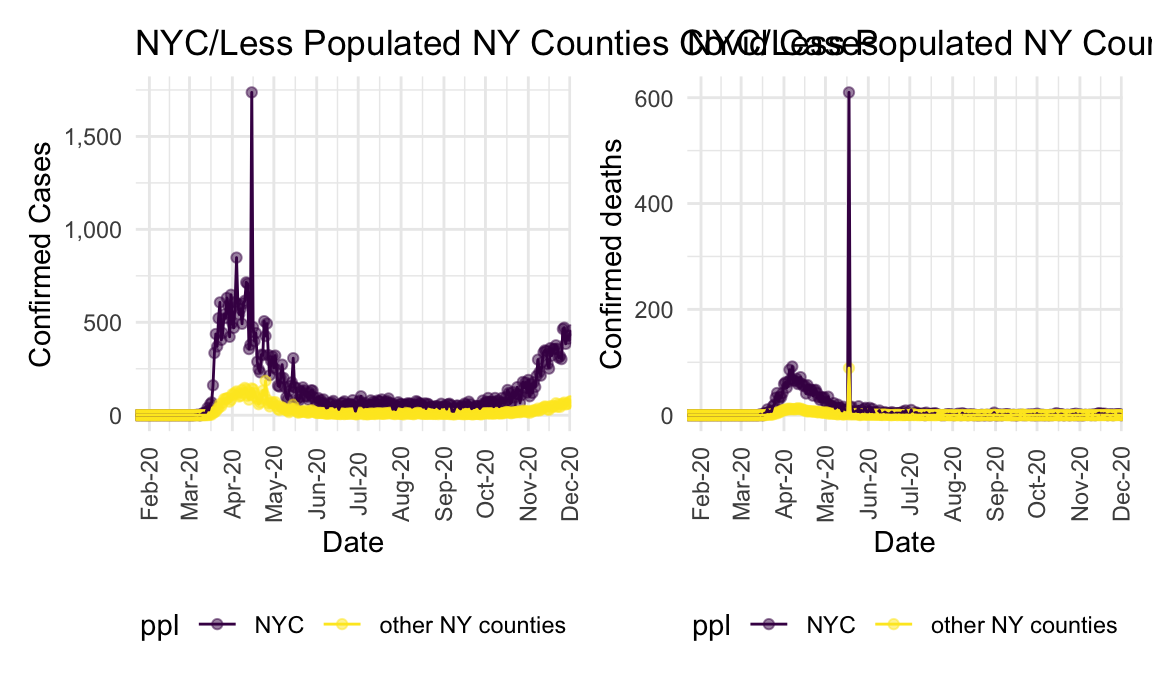
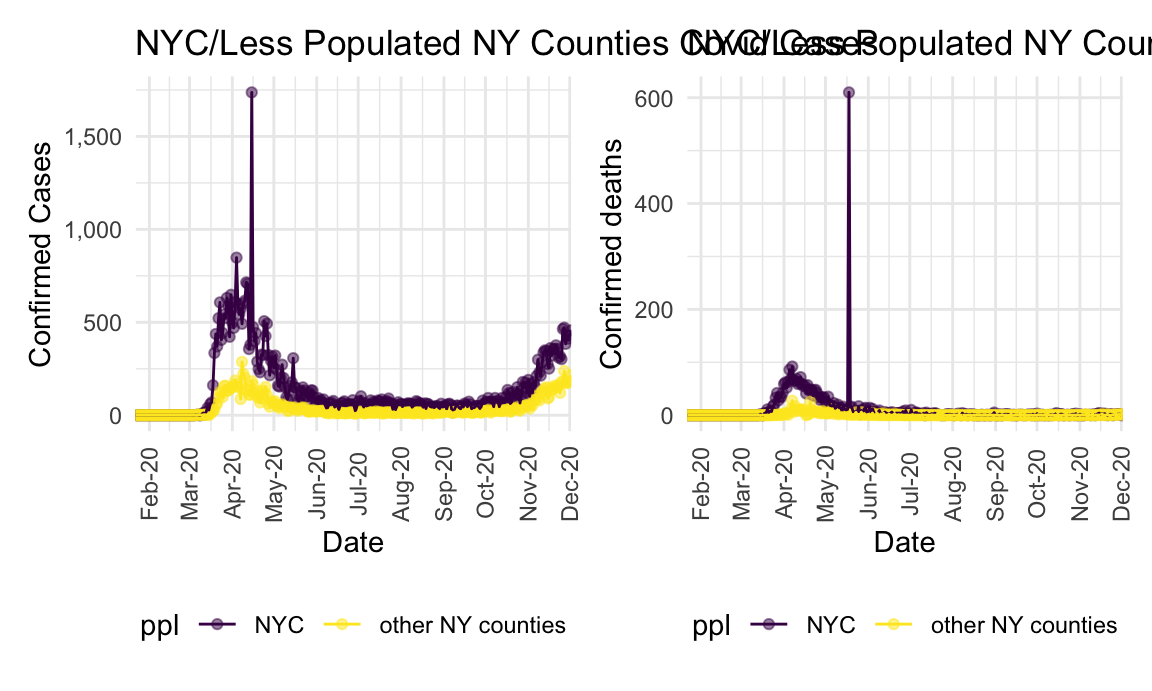
trend graphs for national events

Changed region(s): [[0.1875, 0.5166, 0.5, 0.6078], [0.6562, 0.5166, 0.75, 0.6078]]

diff --git a/descriptive_plotly.html b/descriptive_plotly.html
@@ -561,7 +561,7 @@ ny_df =
   nyc_df %&gt;% 
   rbind(ny_lessppl_df) %&gt;% 
   mutate(ppl = ifelse(county == &quot;New York&quot;, &quot;NYC&quot;, &quot;other NY counties&quot;))</code></pre>
-<p>NYC has a population of 1.62870610^{6}, and the mean population of the 10 randomly selected NY counties is 2.16114610^{5}.</p>
+<p>NYC has a population of 1.62870610^{6}, and the mean population of the 10 randomly selected NY counties is 3.780416210^{5}.</p>
 <pre class="r"><code>ny_confirmed_plot =
   ny_df %&gt;% 
   group_by(ppl, date) %&gt;% 
@@ -607,7 +607,7 @@ ca_df =
   la_df %&gt;% 
   rbind(ca_lessppl_df) %&gt;% 
   mutate(ppl = ifelse(county == &quot;Los Angeles&quot;, &quot;LA&quot;, &quot;other CA counties&quot;))</code></pre>
-<p>Los Angeles has a population of 1.003910710^{7}, and the mean population of the 10 randomly selected CA counties is 7.027838310^{5}.</p>
+<p>Los Angeles has a population of 1.003910710^{7}, and the mean population of the 10 randomly selected CA counties is 5.942249110^{5}.</p>
 <pre class="r"><code>ca_confirmed_plot =
   ca_df %&gt;% 
   group_by(ppl, date) %&gt;% 
@@ -651,7 +651,7 @@ il_df =
   chicago_df %&gt;% 
   rbind(il_lessppl_df) %&gt;% 
   mutate(ppl = ifelse(county == &quot;Cook&quot;, &quot;Cook County (Chicago)&quot;, &quot;other IL counties&quot;))</code></pre>
-<p>Cook County (Chicago included) has a population of 5.15023310^{6}, and the mean population of the 10 randomly selected IL counties is 5.745111810^{4}.</p>
+<p>Cook County (Chicago included) has a population of 5.15023310^{6}, and the mean population of the 10 randomly selected IL counties is 7.029316710^{4}.</p>
 <pre class="r"><code>il_confirmed_plot =
   il_df %&gt;% 
   group_by(ppl, date) %&gt;% 
@@ -695,7 +695,7 @@ tx_df =
   houston_df %&gt;% 
   rbind(tx_lessppl_df) %&gt;% 
   mutate(ppl = ifelse(county == &quot;Houston&quot;, &quot;Houston&quot;, &quot;other TX counties&quot;))</code></pre>
-<p>Houston has a population of 2.296810^{4}, and the mean population of the 10 randomly selected TX counties is 1.256887310^{5}.</p>
+<p>Houston has a population of 2.296810^{4}, and the mean population of the 10 randomly selected TX counties is 1.848458310^{4}.</p>
 <pre class="r"><code>tx_confirmed_plot =
   tx_df %&gt;% 
   group_by(ppl, date) %&gt;% 
@@ -730,6 +730,75 @@ tx_df =
 <pre><code>## Warning: Removed 14 rows containing missing values (geom_point).</code></pre>
 <p><img src="descriptive_plotly_files/figure-html/unnamed-chunk-17-1.png" width="90%" /></p>
 <p>Texas is one of the sub-tropical states.</p>
+<p>Comparing overall us cases and deaths with important national events</p>
+<pre class="r"><code>library(sars2pack)</code></pre>
+<pre><code>## Loading required package: R0</code></pre>
+<pre><code>## Loading required package: MASS</code></pre>
+<pre><code>## 
+## Attaching package: &#39;MASS&#39;</code></pre>
+<pre><code>## The following object is masked from &#39;package:patchwork&#39;:
+## 
+##     area</code></pre>
+<pre><code>## The following object is masked from &#39;package:plotly&#39;:
+## 
+##     select</code></pre>
+<pre><code>## The following object is masked from &#39;package:dplyr&#39;:
+## 
+##     select</code></pre>
+<pre><code>## Loading required package: sf</code></pre>
+<pre><code>## Linking to GEOS 3.8.1, GDAL 3.1.1, PROJ 6.3.1</code></pre>
+<pre><code>## Registered S3 method overwritten by &#39;quantmod&#39;:
+##   method            from
+##   as.zoo.data.frame zoo</code></pre>
+<pre class="r"><code>us_df = jhu_data() %&gt;% 
+  janitor::clean_names() %&gt;% 
+  filter(country_region == &quot;US&quot;)
+
+
+us_covid_df = 
+  us_df %&gt;% 
+    pivot_wider(names_from = subset,
+              values_from = count) %&gt;% 
+    mutate(
+    new_case = confirmed - lag(confirmed, default = 0),
+    new_deaths = deaths - lag(deaths, default = 0),
+    date = as.Date(date)
+    )
+
+events_df = 
+  read_excel(&quot;./data/national_events.xlsx&quot;) 
+
+
+us_events_df = left_join(us_covid_df, events_df, by.x = c(&quot;date&quot;), by.y = c( &quot;date&quot;))</code></pre>
+<pre><code>## Joining, by = &quot;date&quot;</code></pre>
+<pre class="r"><code>us_events_df = 
+  us_events_df %&gt;% 
+  mutate(in_two_weeks_mask = if_else(!(is.na(event)), lead(new_case, 14), NA_real_)) %&gt;%
+  mutate(diff = in_two_weeks_mask - new_case)
+
+
+us_events_df = 
+  us_events_df %&gt;% 
+  mutate(in_two_weeks_death = if_else(!(is.na(event)), lead(new_deaths, 30), NA_real_)) %&gt;% 
+  mutate(diff_death = in_two_weeks_death - new_deaths)</code></pre>
+<pre class="r"><code>us_events_df %&gt;%  
+  ggplot(aes(x = date, y = new_case)) +
+  geom_point() +
+    labs(title = &quot;New cases over time&quot;,
+       y = &quot;new cases&quot;,
+       x = &quot;date&quot;) +
+      geom_vline(data = events_df, mapping = aes(xintercept = date) ,linetype = &quot;dotted&quot;,color = &quot;blue&quot;, show.legend = TRUE) +
+  geom_text(data = events_df, mapping = aes(x = date, y = 127500, label = event), size = 3.5, angle = 90, vjust = -0.4, hjust = 0)</code></pre>
+<p><img src="descriptive_plotly_files/figure-html/unnamed-chunk-19-1.png" width="90%" /></p>
+<pre class="r"><code>us_events_df %&gt;%  
+  ggplot(aes(x = date, y = new_deaths)) +
+  geom_point() +
+    labs(title = &quot;New deaths over time&quot;,
+       y = &quot;new deaths&quot;,
+       x = &quot;date&quot;) +
+      geom_vline(data = events_df, mapping = aes(xintercept = date) , linetype = &quot;dotted&quot;, color = &quot;blue&quot;, show.legend = TRUE) +
+  geom_text(data = events_df, mapping = aes(x = date, y = 1750, label = event), size = 3.5, angle = 90, vjust = -0.4, hjust = 0)</code></pre>
+<p><img src="descriptive_plotly_files/figure-html/unnamed-chunk-20-1.png" width="90%" /></p>
 
 
 
